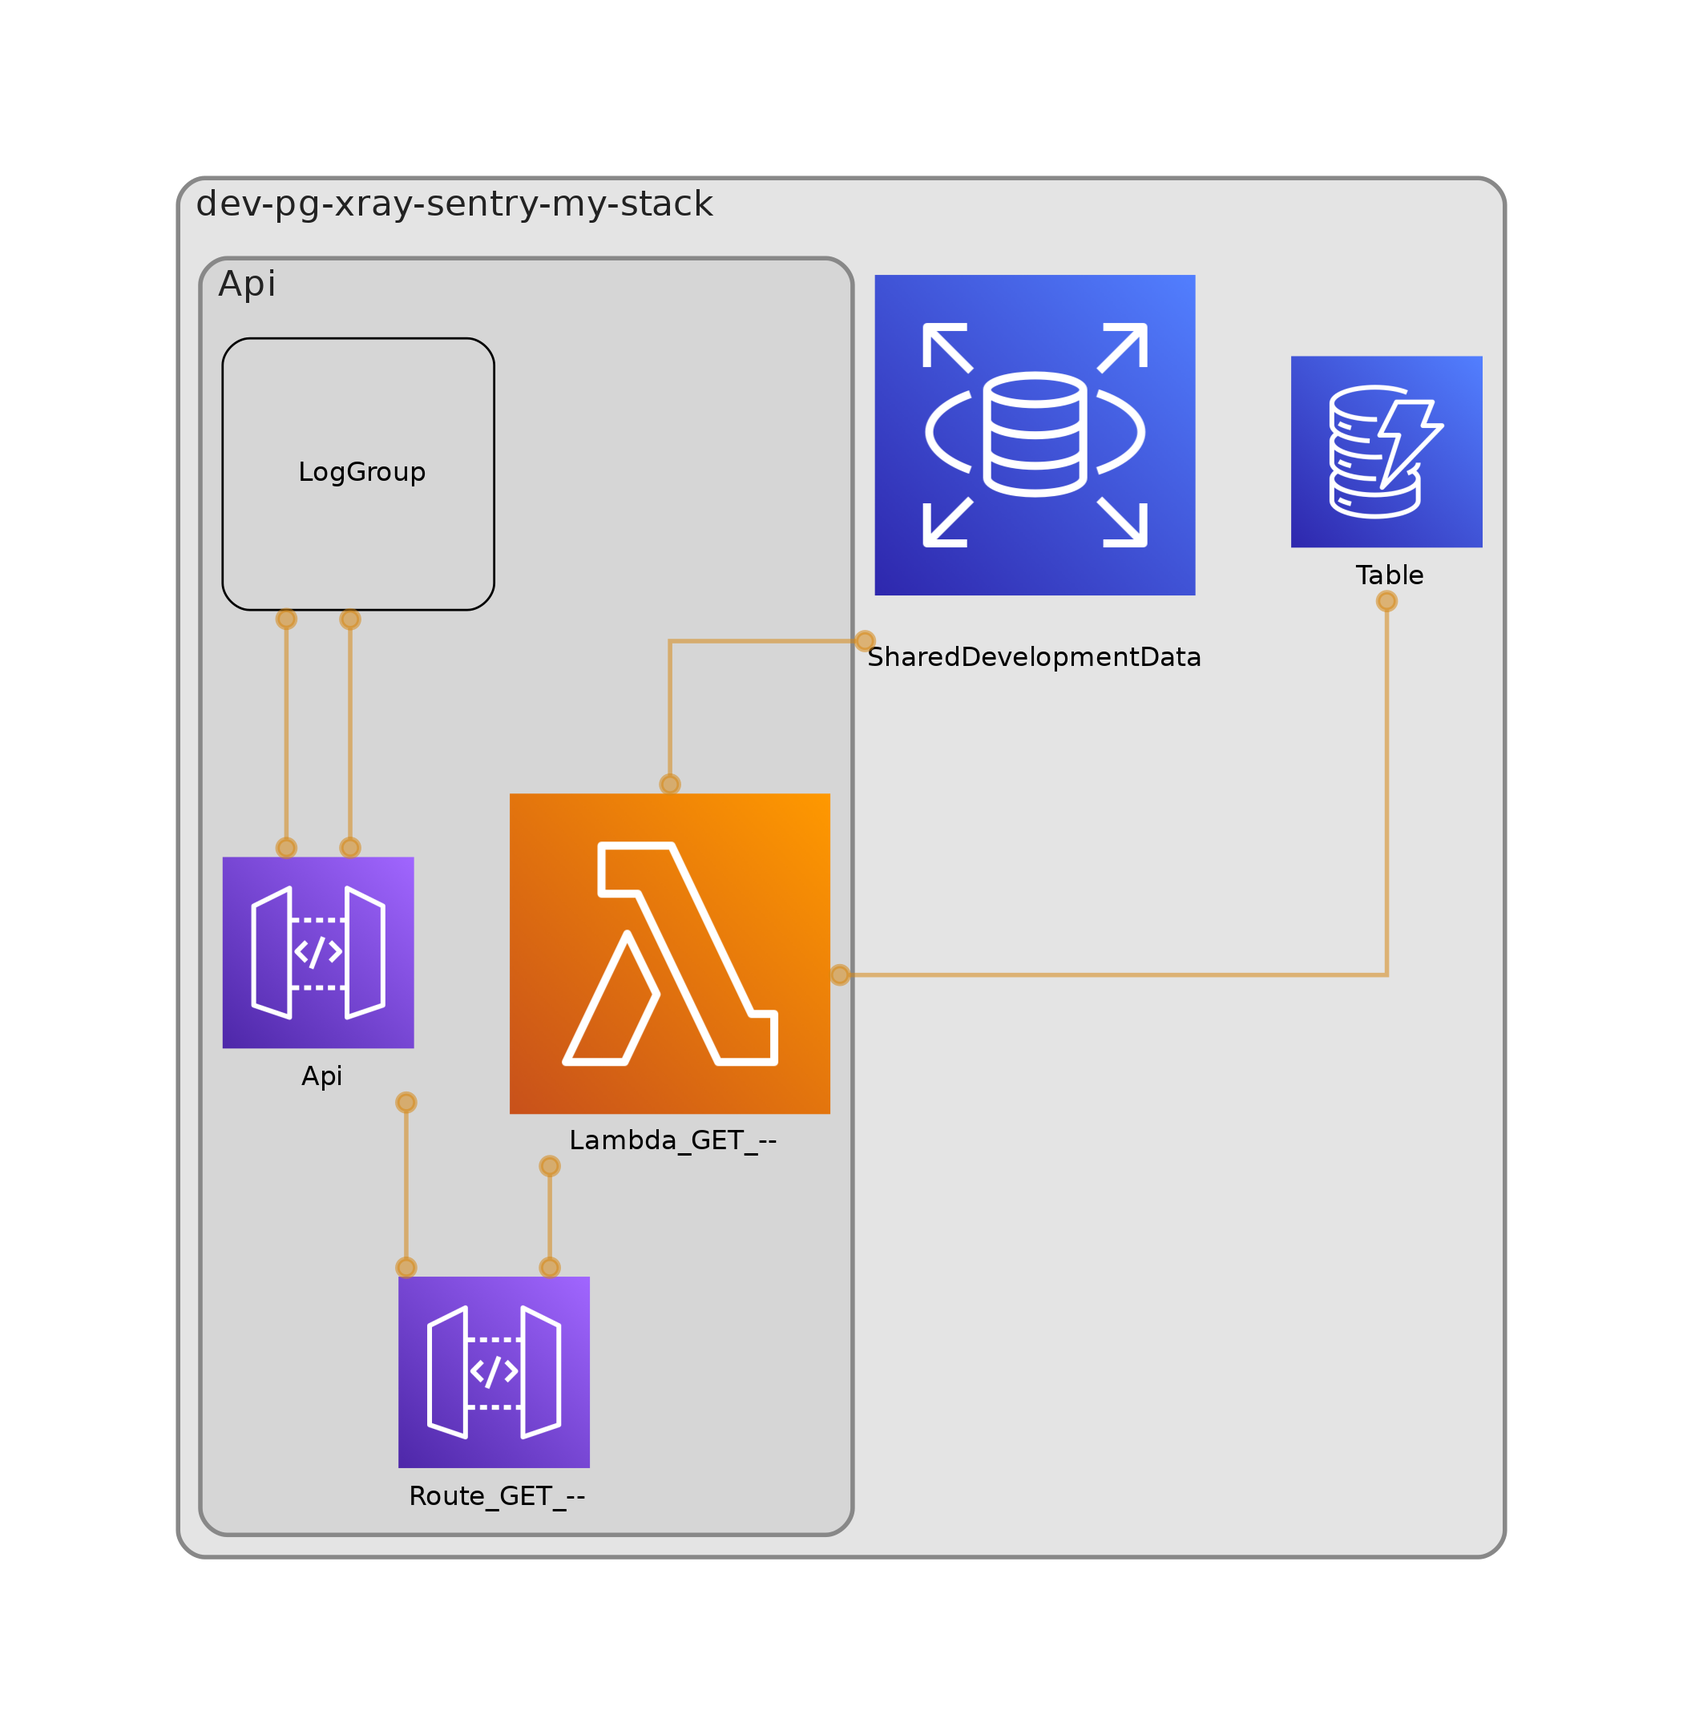
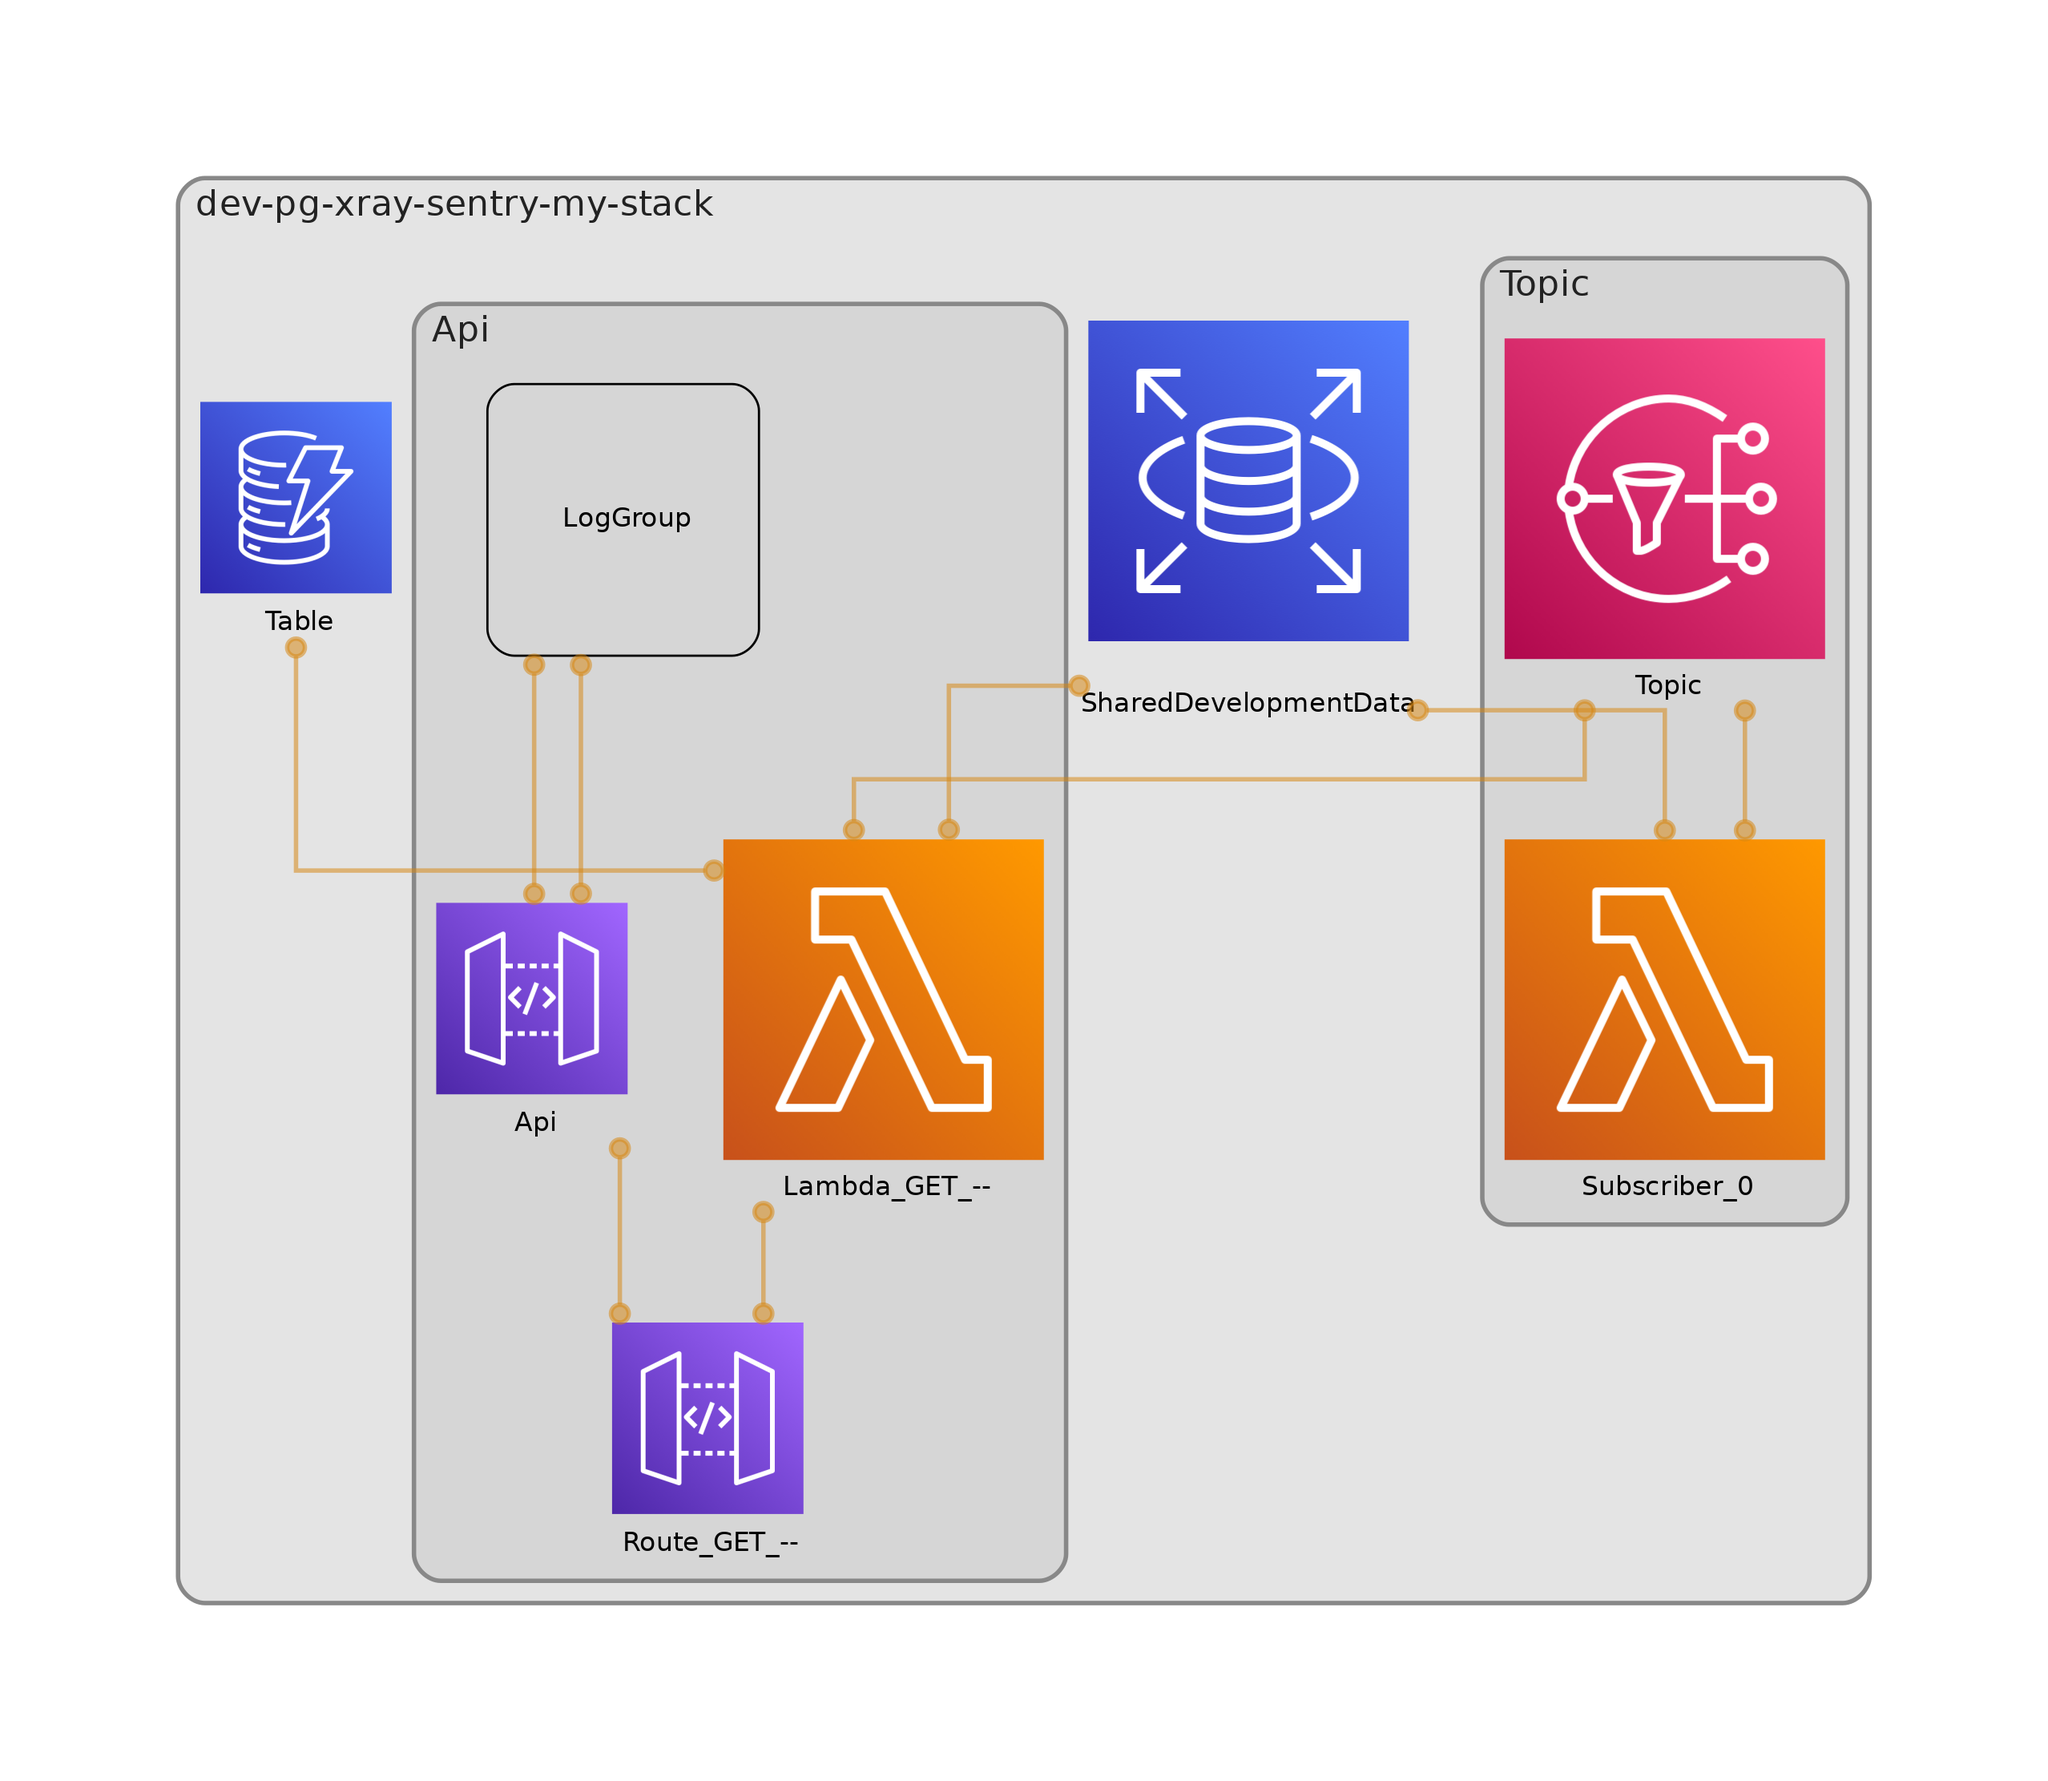
Complete Xray POC

Changed region(s): [[0.0619, 0.0928, 0.9286, 0.9284], [0.2786, 0.2785, 0.3405, 0.3095]]

diff --git a/src/handlers/index.ts b/src/handlers/index.ts
@@ -1,63 +1,27 @@
-import { APIGatewayProxyHandlerV2 } from 'aws-lambda';
-import axios from 'axios';
-import { mapUser } from '../api/mappers/user';
-import { dynamoDB } from '../utils/aws';
+import * as Sentry from '@sentry/serverless';
+import { controller } from './api';
+import { command } from './events';
 
-// Knex with migrations
-import knex from 'knex';
-import { User } from 'knex/types/tables';
-import fetchCredentials from '../knex/knexfile';
+Sentry.AWSLambda.init({
+  dsn: String(process.env.SENTRY_DSN),
+  tracesSampleRate: 1.0,
+  autoSessionTracking: true,
+  logLevel: 3,
+  enabled: true,
+});
 
-export const controller: APIGatewayProxyHandlerV2 = async () => {
-  // XRAY tracing a HTTP request
-  await axios.get('https://google.com');
+export const api = Sentry.AWSLambda.wrapHandler(controller, {
+  captureTimeoutWarning: false,
+  rethrowAfterCapture: true,
+  flushTimeout: 500,
+  timeoutWarningLimit: 3000,
+  callbackWaitsForEmptyEventLoop: false,
+});
 
-  // XRAY AWS SDK Tracing
-  await dynamoDB
-    .putItem({
-      TableName: String(process.env.TABLE_NAME),
-      Item: {
-        pk: { S: (Math.random() + 1).toString(36).substring(7) },
-        sk: { S: (Math.random() + 1).toString(36).substring(7) },
-      },
-    })
-    .promise();
-
-  // XRAY tracing a database
-  const credentials = await fetchCredentials();
-  const db = knex(credentials);
-  await db.migrate.latest();
-  await db.migrate.rollback();
-
-  let user: User[] | null = null;
-
-  try {
-    user = await db('users')
-      .insert({
-        name: 'Simon',
-      })
-      .returning('*');
-  } catch (e) {
-    console.error('Database insert error', e);
-  } finally {
-    db.destroy();
-  }
-
-  if (user === null) {
-    return {
-      statusCode: 422,
-      headers: { 'Content-Type': 'application/json' },
-      body: JSON.stringify({
-        message: 'Failed to create user',
-      }),
-    };
-  }
-
-  const apiUser = mapUser(user[0]);
-
-  return {
-    statusCode: 200,
-    headers: { 'Content-Type': 'application/json' },
-    body: JSON.stringify(apiUser),
-  };
-};
+export const event = Sentry.AWSLambda.wrapHandler(command, {
+  captureTimeoutWarning: false,
+  rethrowAfterCapture: true,
+  flushTimeout: 500,
+  timeoutWarningLimit: 3000,
+  callbackWaitsForEmptyEventLoop: false,
+});

diff --git a/src/handlers/api/index.ts b/src/handlers/api/index.ts
@@ -1,0 +1,75 @@
+import { APIGatewayProxyHandlerV2 } from 'aws-lambda';
+import axios from 'axios';
+import { mapUser } from '../../knex/mappers/user';
+import { dynamoDB, sns } from '../../utils/aws';
+
+// Knex with migrations
+import knex from 'knex';
+import { User } from 'knex/types/tables';
+import fetchCredentials from '../../knex/knexfile';
+
+export const controller: APIGatewayProxyHandlerV2 = async () => {
+  // XRAY tracing a HTTP request
+  await axios.get('https://google.com');
+
+  // XRAY AWS SDK Tracing
+  await dynamoDB
+    .putItem({
+      TableName: String(process.env.TABLE_NAME),
+      Item: {
+        pk: { S: (Math.random() + 1).toString(36).substring(7) },
+        sk: { S: (Math.random() + 1).toString(36).substring(7) },
+      },
+    })
+    .promise();
+
+  // XRAY tracing a database
+  const credentials = await fetchCredentials();
+  const db = knex(credentials);
+  // await db.migrate.latest();
+  // await db.migrate.rollback();
+
+  let user: User[] | null = null;
+
+  try {
+    user = await db('users')
+      .insert({
+        name: 'Simon',
+      })
+      .returning('*');
+  } catch (e) {
+    console.error('Database insert error', e);
+  } finally {
+    db.destroy();
+  }
+
+  if (user === null) {
+    return {
+      statusCode: 422,
+      headers: { 'Content-Type': 'application/json' },
+      body: JSON.stringify({
+        message: 'Failed to create user',
+      }),
+    };
+  }
+
+  const apiUser = mapUser(user[0]);
+
+  await sns
+    .publish({
+      Message: JSON.stringify({
+        event: 'user_created',
+        data: {
+          user_id: apiUser.id,
+        },
+      }),
+      TopicArn: process.env.TOPIC_ARN,
+    })
+    .promise();
+
+  return {
+    statusCode: 200,
+    headers: { 'Content-Type': 'application/json' },
+    body: JSON.stringify(apiUser),
+  };
+};

diff --git a/lib/MyStack.ts b/lib/MyStack.ts
@@ -40,10 +40,24 @@ export default class MyStack extends sst.Stack {
 
     cluster.connections.allowDefaultPortFromAnyIpv4();
 
+    // Create an event receiver
+    const topic = new sst.Topic(this, 'Topic', {
+      subscribers: ['src/handlers/index.event'],
+      defaultFunctionProps: {
+        environment: {
+          SENTRY_DSN: String(process.env.SENTRY_DSN),
+          SECRET_NAME: String(cluster.secret?.secretArn),
+        },
+        bundle: {
+          nodeModules: ['@sentry/serverless', 'pg', 'knex'],
+        },
+      },
+    });
+
     // Create a HTTP API that has the following routes
     const api = new sst.Api(this, 'Api', {
       routes: {
-        'GET /': 'src/lambda.handler',
+        'GET /': 'src/handlers/index.api',
       },
       defaultFunctionProps: {
         bundle: {
@@ -52,19 +66,25 @@ export default class MyStack extends sst.Stack {
             { from: 'src/knex/migrations', to: 'src/knex/migrations' },
           ],
         },
-        permissions: [[table.dynamodbTable, 'grantReadWriteData']],
+        permissions: [
+          [table.dynamodbTable, 'grantReadWriteData'],
+          [topic.snsTopic, 'grantPublish'],
+        ],
         environment: {
           TABLE_NAME: table.tableName,
           SECRET_NAME: String(cluster.secret?.secretArn),
           SENTRY_DSN: String(process.env.SENTRY_DSN),
+          TOPIC_ARN: topic.topicArn,
         },
       },
     });
 
     // Allow the lambda to read the RDS connection secret
     if (cluster.secret) {
-      const fn = api.getFunction('GET /');
-      fn && cluster.secret.grantRead(fn);
+      const fn1 = api.getFunction('GET /');
+      const fn2 = topic.subscriberFunctions[0];
+      fn1 && cluster.secret.grantRead(fn1);
+      fn2 && cluster.secret.grantRead(fn2);
     }
 
     // Show the endpoint in the output

diff --git a/src/knex/mappers/user.ts b/src/knex/mappers/user.ts
@@ -1,0 +1,37 @@
+// Map a database user into an APIUser
+
+import { Knex } from 'knex';
+import { User } from 'knex/types/tables';
+
+type APIUser = {
+  id: number;
+  name: string;
+  createdAt: Date;
+  updatedAt: Date;
+};
+
+export const mapUser = (user: User): APIUser => ({
+  ...{ id: user.id },
+  name: user.name,
+  createdAt: new Date(user.created_at),
+  updatedAt: new Date(user.updated_at),
+});
+
+declare module 'knex/types/tables' {
+  interface User {
+    id: number;
+    name: string;
+    created_at: string;
+    updated_at: string;
+  }
+
+  interface Tables {
+    users: User;
+
+    users_composite: Knex.CompositeTableType<
+      User,
+      Pick<User, 'name'> & Partial<Pick<User, 'created_at' | 'updated_at'>>,
+      Partial<Omit<User, 'id'>>
+    >;
+  }
+}

diff --git a/src/handlers/events/index.ts b/src/handlers/events/index.ts
@@ -1,0 +1,27 @@
+import { SNSHandler } from 'aws-lambda';
+import knex from 'knex';
+import { User } from 'knex/types/tables';
+import fetchCredentials from '../../knex/knexfile';
+
+export const command: SNSHandler = async (event) => {
+  console.info('Event received', { event });
+
+  const record = event.Records[0];
+  const data = JSON.parse(record.Sns.Message);
+
+  console.info('Received SNS message', { data });
+
+  const credentials = await fetchCredentials();
+  const db = knex(credentials);
+  let user: User | undefined;
+
+  try {
+    user = await db<User>('users').where('id', data.data.user_id).first();
+  } catch (e) {
+    console.error('Database insert error', e);
+  } finally {
+    db.destroy();
+  }
+
+  console.info('Found user', { user });
+};

diff --git a/src/utils/aws.ts b/src/utils/aws.ts
@@ -1,4 +1,4 @@
-import { captureAWS, captureHTTPsGlobal, capturePostgres } from 'aws-xray-sdk';
+import { captureAWS, captureHTTPsGlobal } from 'aws-xray-sdk';
 import * as AWS_SDK from 'aws-sdk';
 
 // Mutate libraries when running inside AWS Lambda environment
@@ -11,8 +11,6 @@ if (process.env.LAMBDA_TASK_ROOT) {
 
 const AWS = process.env.LAMBDA_TASK_ROOT ? captureAWS(AWS_SDK) : AWS_SDK;
 
-export const dynamoDB = new AWS.DynamoDB({
-  maxRetries: 0,
-});
-
+export const dynamoDB = new AWS.DynamoDB({});
 export const secretsManager = new AWS.SecretsManager({});
+export const sns = new AWS.SNS({});

diff --git a/src/knex/knexfile.ts b/src/knex/knexfile.ts
@@ -62,22 +62,3 @@ export default async (): Promise<Knex.Config> => {
     log: console,
   };
 };
-
-declare module 'knex/types/tables' {
-  interface User {
-    id: number;
-    name: string;
-    created_at: string;
-    updated_at: string;
-  }
-
-  interface Tables {
-    users: User;
-
-    users_composite: Knex.CompositeTableType<
-      User,
-      Pick<User, 'name'> & Partial<Pick<User, 'created_at' | 'updated_at'>>,
-      Partial<Omit<User, 'id'>>
-    >;
-  }
-}

diff --git a/README.md b/README.md
@@ -16,6 +16,13 @@
 
 ![Architecture diagram](./diagram.png)
 
+## Outcome
+
+- Able to capture all errors in sentry without capturing any PII
+- Able to show xray and trace propagation across system via SNS
+
+![Xray Tracing](./xray-vision.png)
+
 ## Todo
 
 Complete hook to transpile migrations before deploying:
